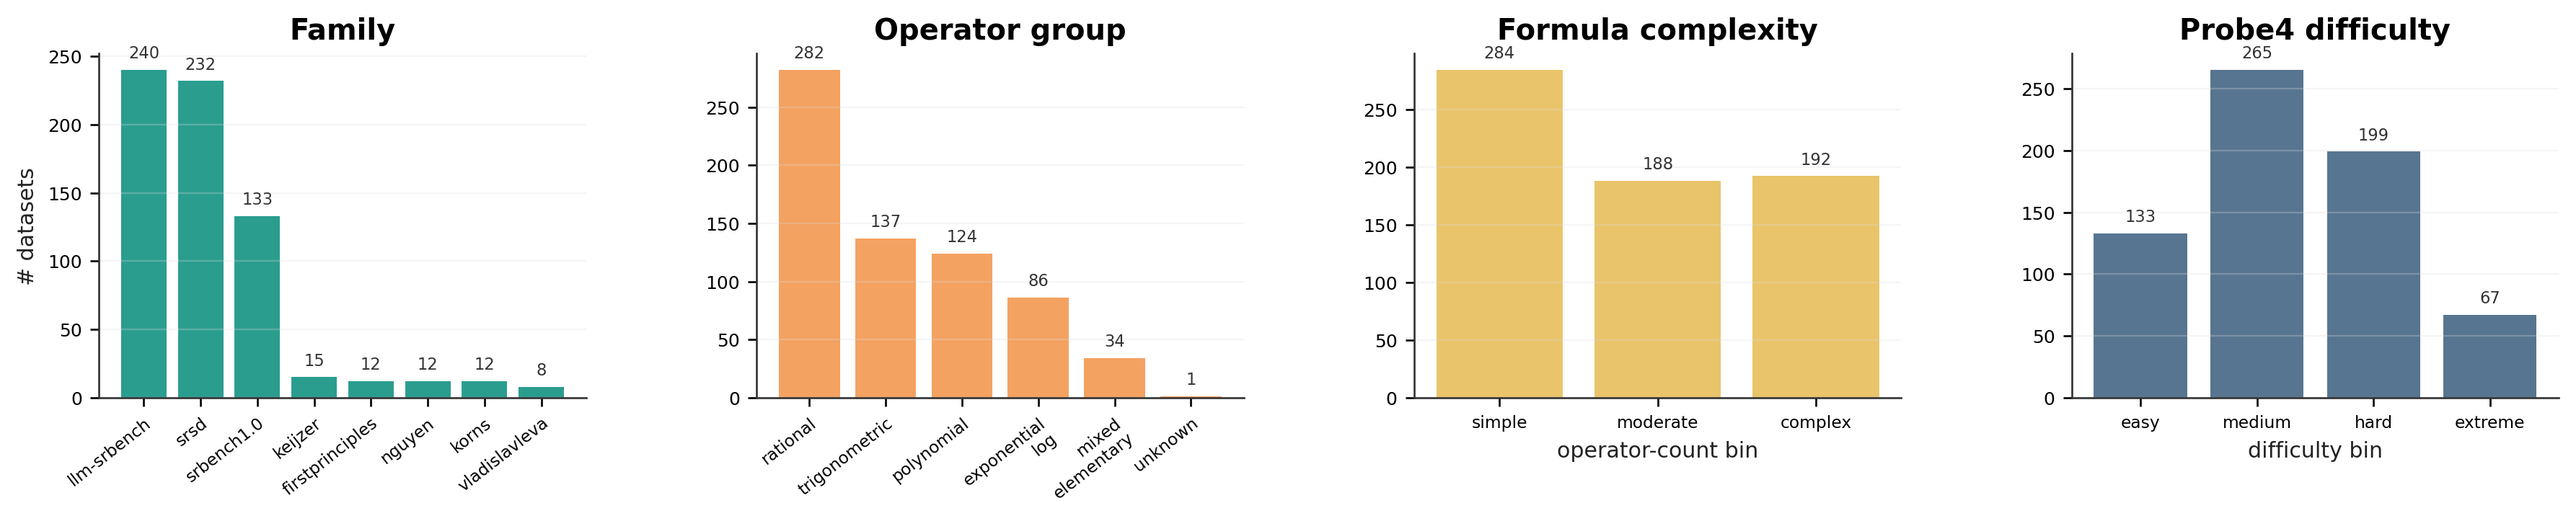
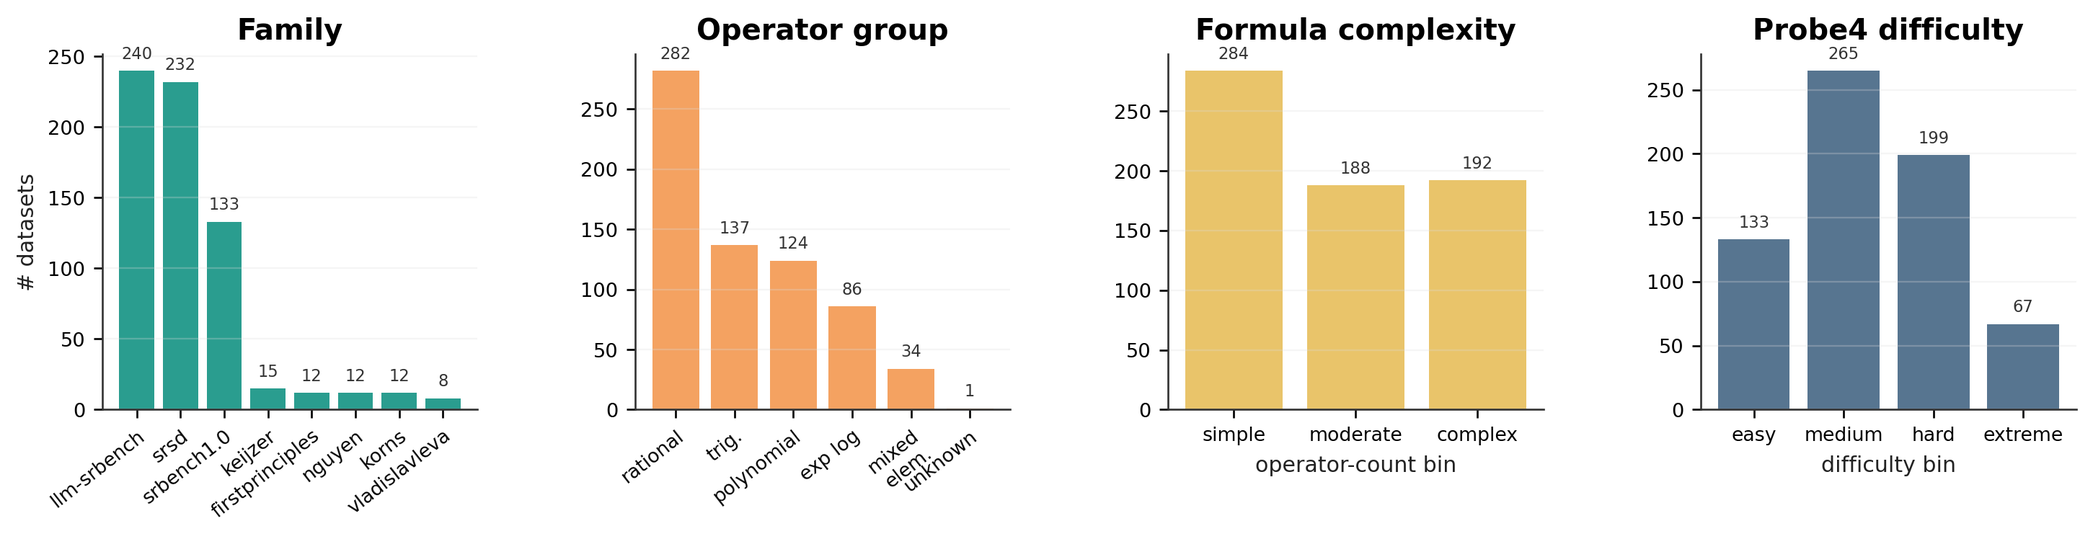
[update] 放大GT数据池组成图

diff --git a/check/plot_paper_experiment_figures.py b/check/plot_paper_experiment_figures.py
@@ -383,7 +383,9 @@ def plot_reservoir_composition(dataset_level: pd.DataFrame, record: list[FigureR
         for idx, value in enumerate(values):
             ax.text(idx, value + ymax * 0.025, f"{int(value)}", ha="center", va="bottom", fontsize=6.8, color="#333333")
 
-    fig, axes = plt.subplots(1, 4, figsize=(15.2, 3.9))
+    # 正文里这张图会被压到单页文本宽度。保持 1x4 结构，但使用更高、
+    # 更紧凑的画布，避免超宽浅图在论文中缩得过小。
+    fig, axes = plt.subplots(1, 4, figsize=(12.4, 4.9))
     family = dataset_level["family"].value_counts()
     family_labels = ["firstprinciples" if str(x) == "srbench2025/firstprinciples" else x for x in family.index]
     axes[0].bar(np.arange(len(family)), family.values, color="#2a9d8f")
@@ -394,10 +396,16 @@ def plot_reservoir_composition(dataset_level: pd.DataFrame, record: list[FigureR
     add_bar_labels(axes[0], family.values)
 
     op = dataset_level["operator_group"].fillna("unknown").value_counts()
+    op_label_map = {
+        "trigonometric": "trig.",
+        "exponential_log": "exp/log",
+        "mixed_elementary": "mixed elem.",
+    }
+    op_labels = [op_label_map.get(str(x), x) for x in op.index]
     axes[1].bar(np.arange(len(op)), op.values, color="#f4a261")
     axes[1].set_title("Operator group", loc="center", x=0.5)
     axes[1].set_xticks(np.arange(len(op)))
-    axes[1].set_xticklabels([wrap_label(x, 12) for x in op.index], rotation=38, ha="right", rotation_mode="anchor")
+    axes[1].set_xticklabels([wrap_label(x, 10) for x in op_labels], rotation=38, ha="right", rotation_mode="anchor")
     add_bar_labels(axes[1], op.values)
 
     complexity_order = ["simple", "moderate", "complex"]
@@ -422,10 +430,10 @@ def plot_reservoir_composition(dataset_level: pd.DataFrame, record: list[FigureR
         ax.grid(axis="y", alpha=0.28)
         ax.spines["top"].set_visible(False)
         ax.spines["right"].set_visible(False)
-        ax.tick_params(axis="x", labelsize=7.0)
-        ax.tick_params(axis="y", labelsize=7.5)
+        ax.tick_params(axis="x", labelsize=8.0)
+        ax.tick_params(axis="y", labelsize=8.2)
 
-    fig.subplots_adjust(left=0.055, right=0.99, top=0.78, bottom=0.27, wspace=0.35)
+    fig.subplots_adjust(left=0.065, right=0.985, top=0.78, bottom=0.36, wspace=0.42)
     files = save(fig, OUTDIR / "figure02_reservoir_composition.png")
     record.append(FigureRecord("Figure 2", "GT-Reservoir composition", "generated", ";".join(files)))
 
